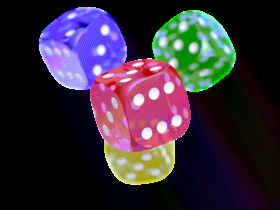
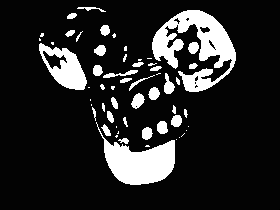
oops! forgot to assign current pixel to the new color. should be working now.

diff --git a/src/main.rs b/src/main.rs
@@ -178,8 +178,7 @@ fn dither_image_fs(image_rgb_vec:&mut Vec<RGB<u8>>, width:u32, height:u32, user_
     for i in 0..(image_rgb_vec.len()-1){ // For every pixel in the image
         let i_a = i as u32;
         let new_color = find_nearest_color(image_rgb_vec[i],user_palette.clone()); // find nearest color in palette
-        // TODO: FIX OVERFLOWING ON SUB, LIKELY ON ADD TOO
-        // We will make an "extention trait" for satsub() and satadd() according to IRC
+        image_rgb_vec[i] = new_color;
         let quant_err = image_rgb_vec[i].saturating_sub(new_color); // quant error calc
         if !wrapper_end { // if we are not at the bottom
             image_rgb_vec[(i_a+width) as usize] = image_rgb_vec[(i_a+width) as usize].saturating_add( // [x][y+1]
